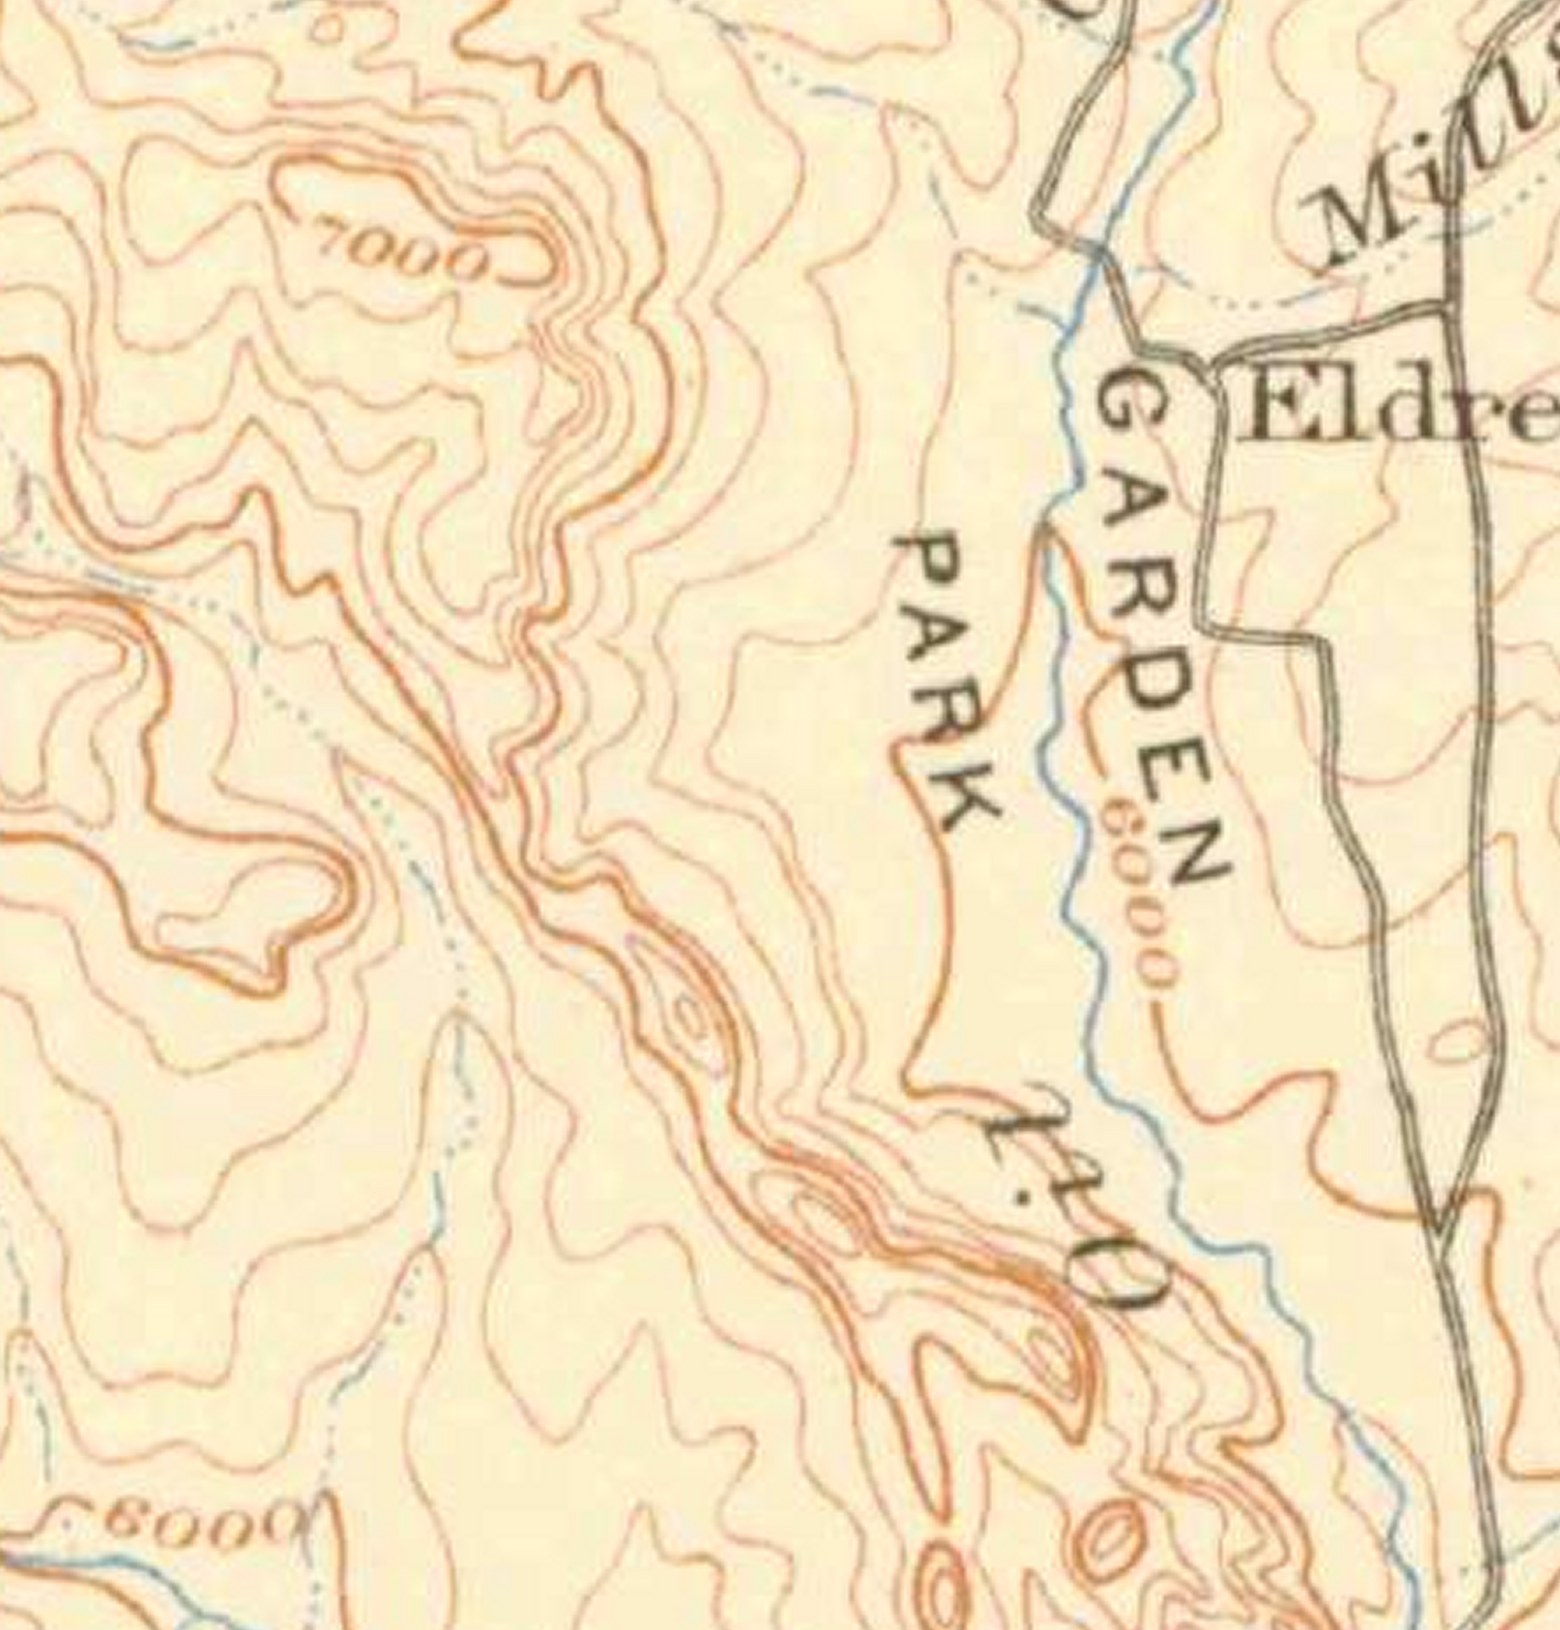
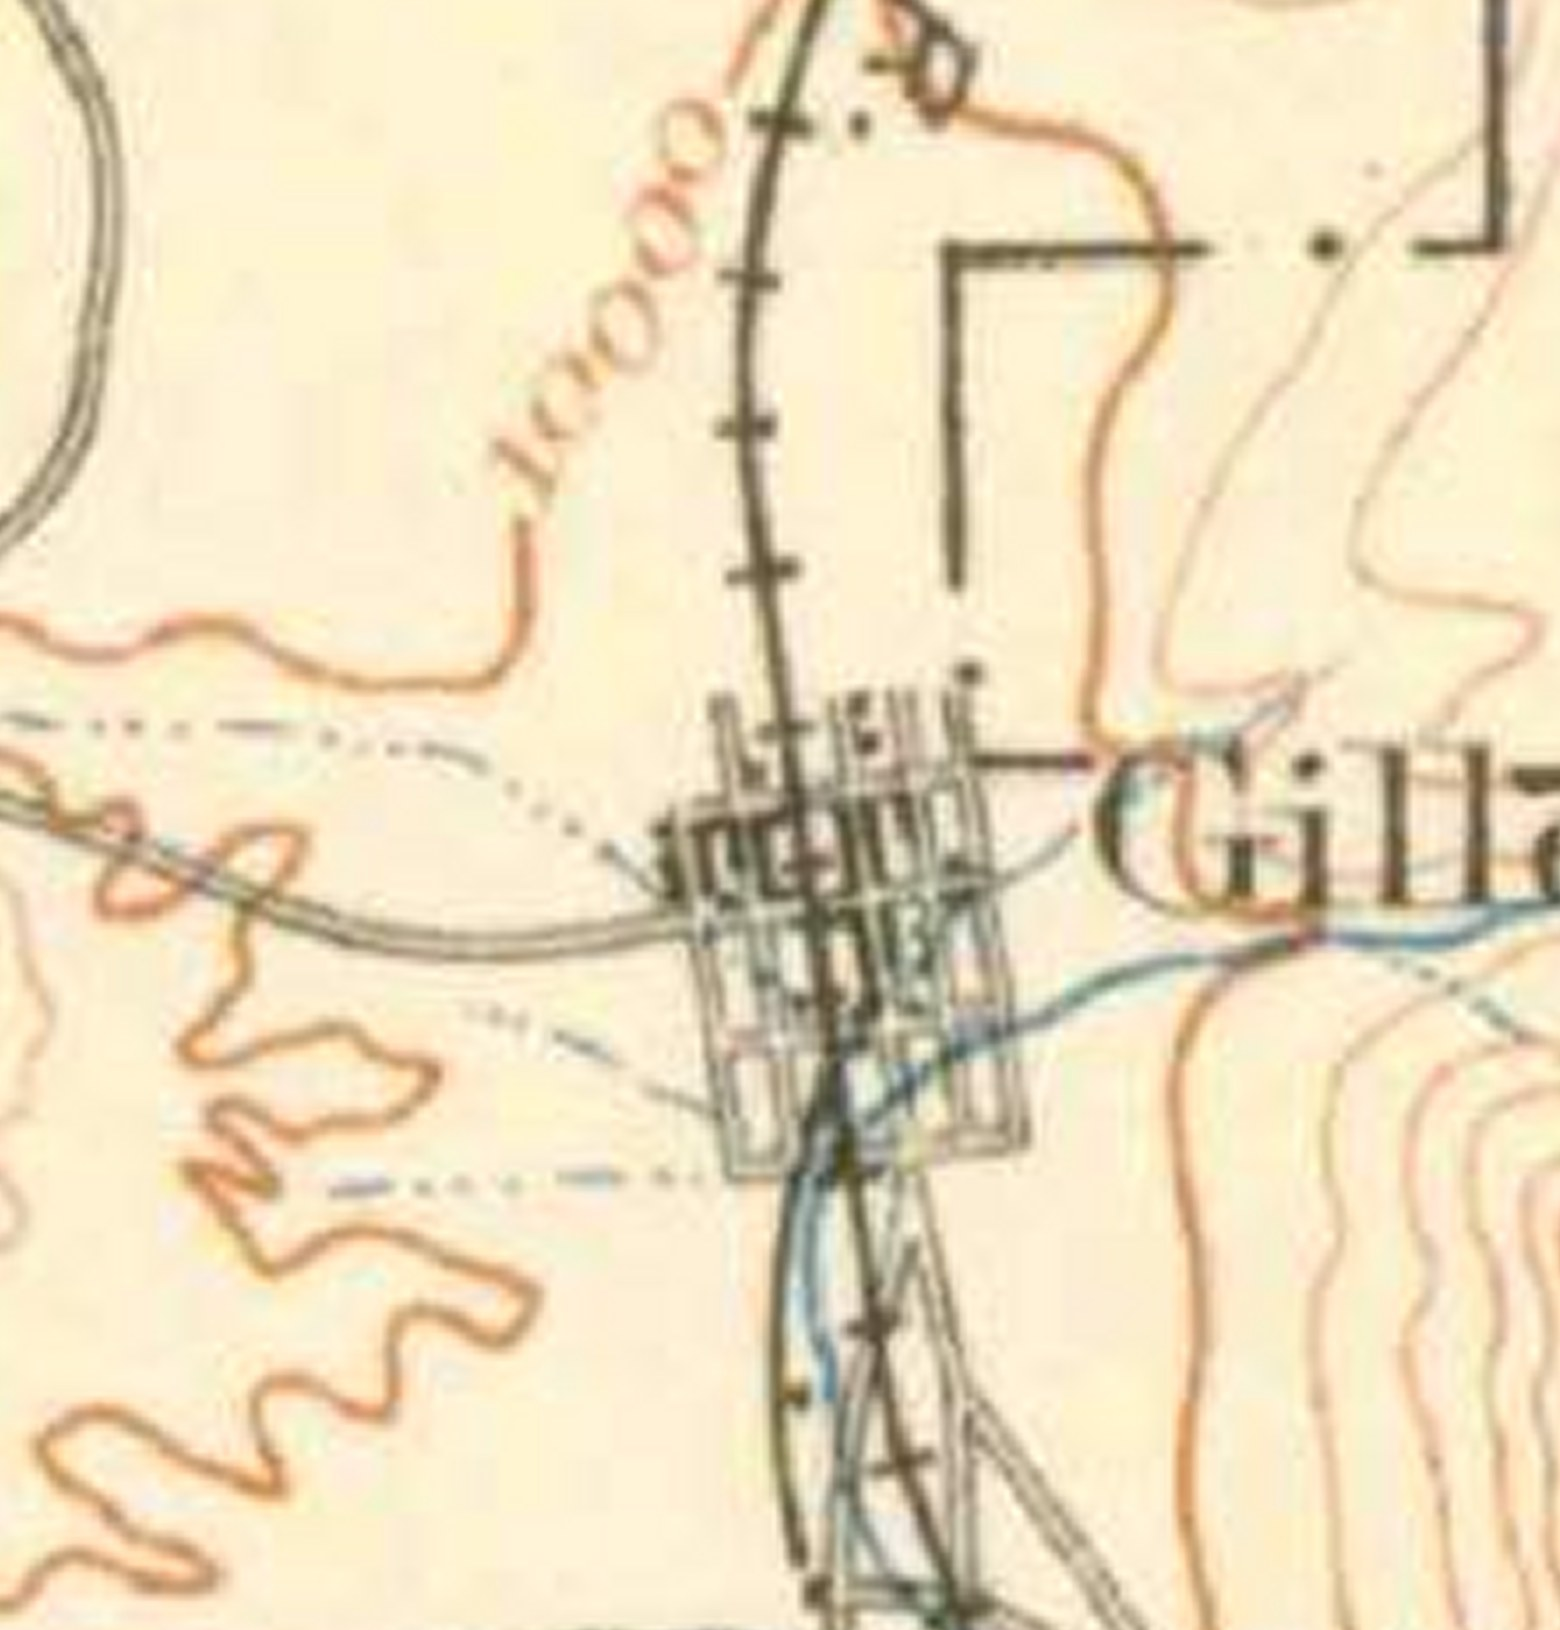
Correct Gillett's 1901 USGS map overlay (was cut from the wrong part of the sheet)

diff --git a/atlas/places/gillett/KNOWN.md b/atlas/places/gillett/KNOWN.md
@@ -111,7 +111,7 @@ Only `public-domain` and `licensed` images may be shown on a public site; the re
 | USGS Pikes Peak, 1:125,000, edition of 1894 | 1894 | 400 ft |
 | Sanborn insurance sheet, 1896 | 1896 | 10 ft |
 | Sanborn insurance sheet, 1900 | 1900 | 10 ft |
-| USGS Pikes Peak special, 1:62,500, 1901 | 1901 | 200 ft |
+| USGS Pikes Peak, 1:125,000, edition of 1901 (reprinted 1909) | 1901 | 400 ft |
 | Sanborn insurance sheet, 1908 | 1908 | 10 ft |
 | USGS Cripple Creek North and Pikes Peak, 1:24,000, 1951 | 1951 | 40 ft |
 | Aerial photograph, 29 October 1953 (Army Map Service, frame 133-2193) | 1953 | 115 ft |
